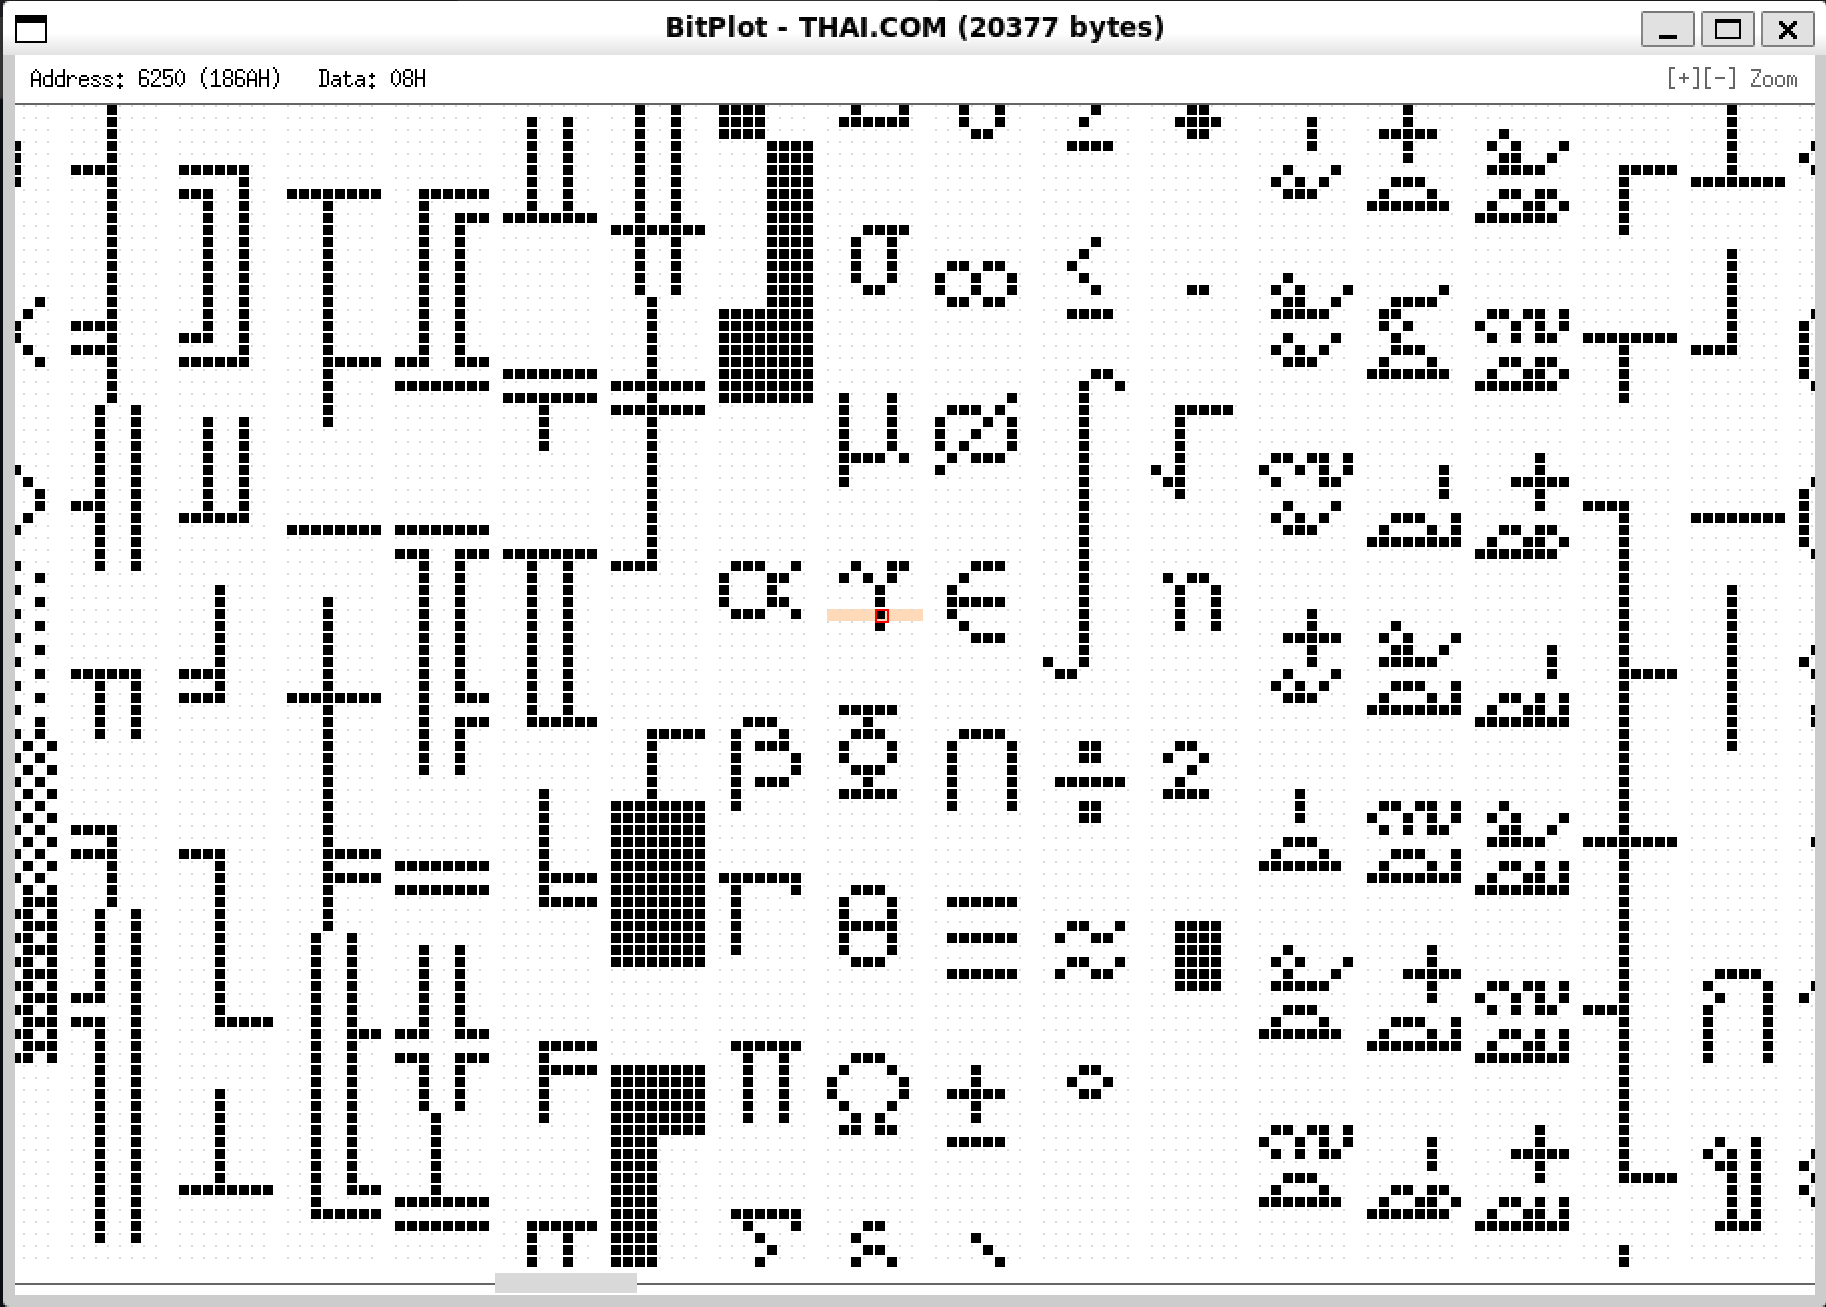
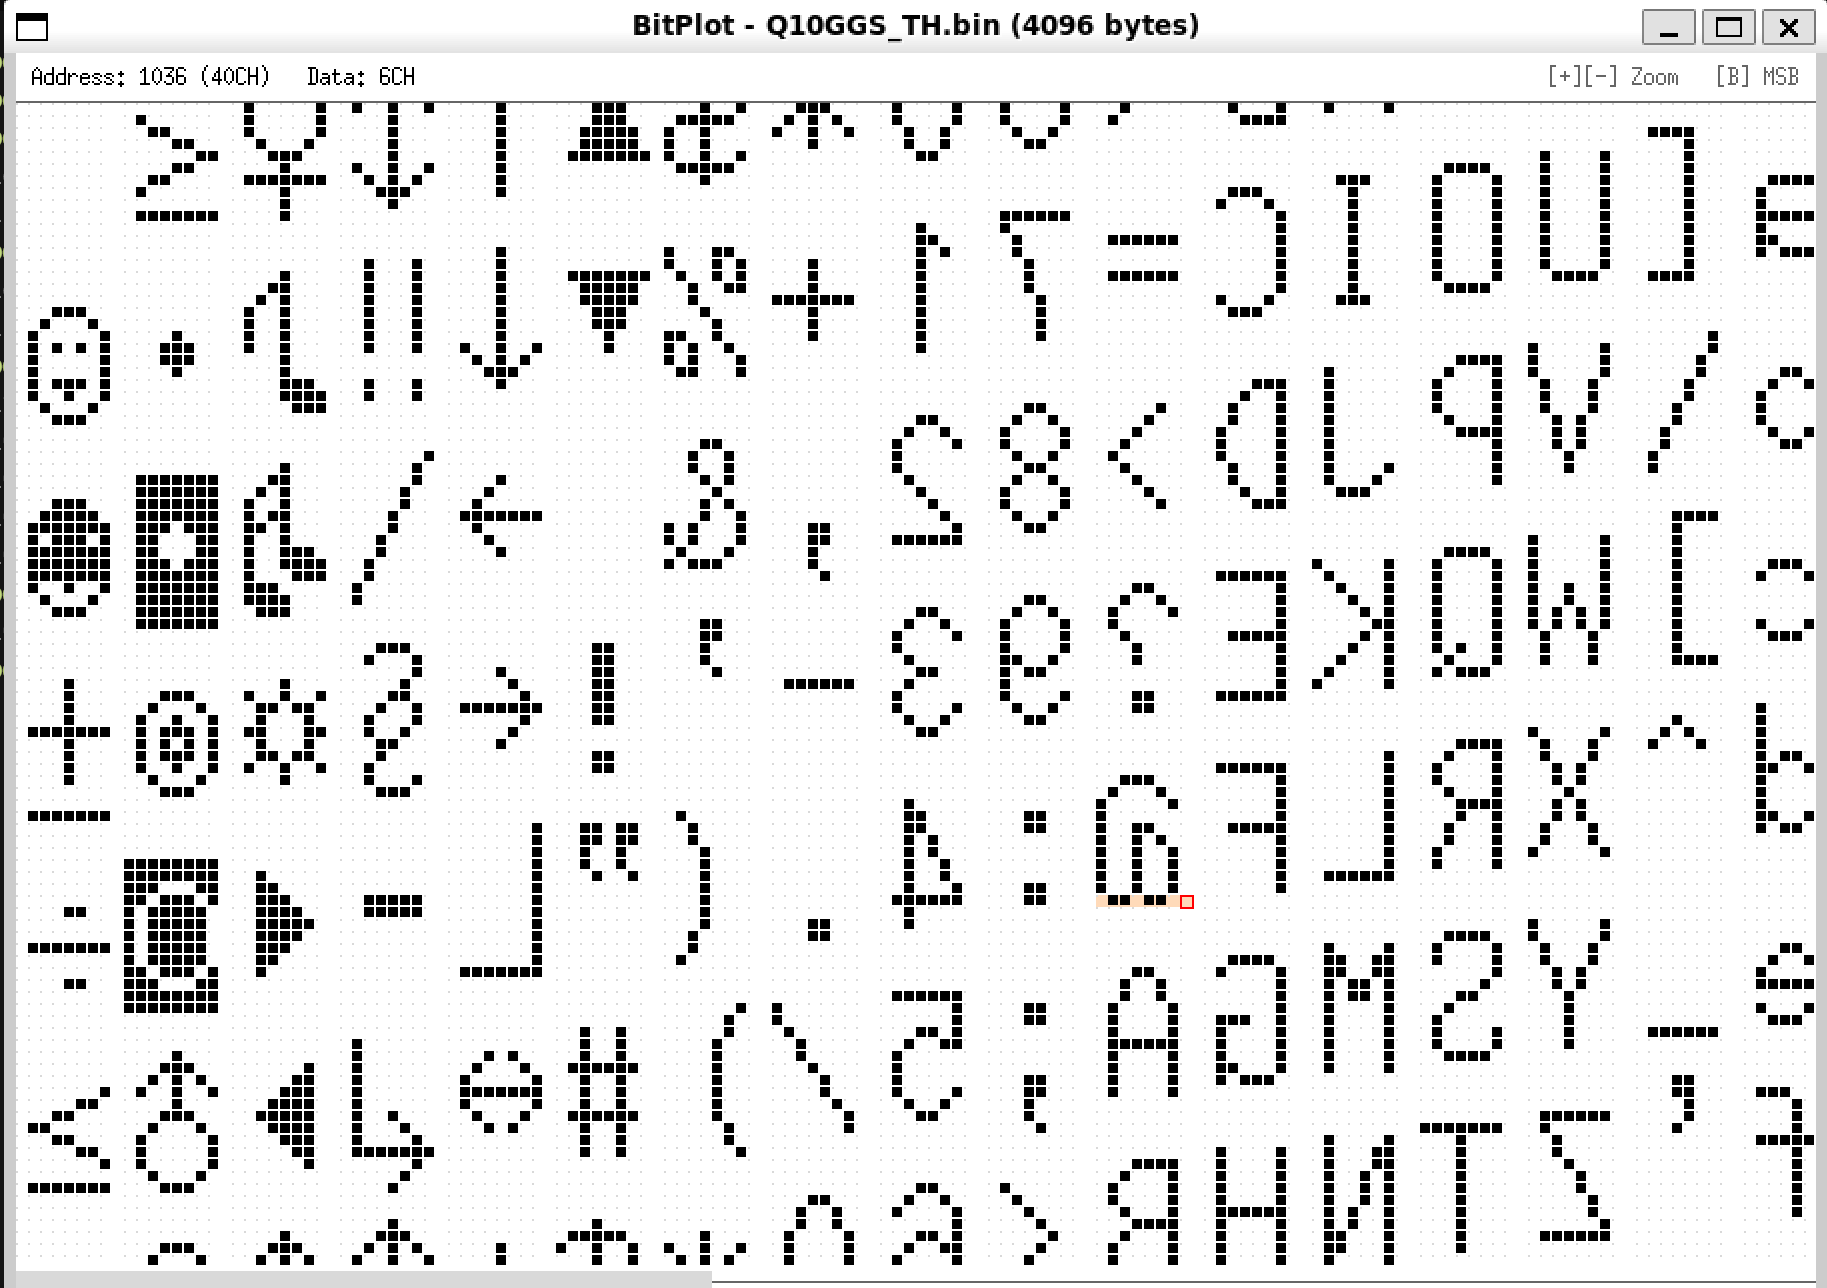
Add B key to flip bit order (MSB <-> LSB) for mirrored fonts; new screenshots
Some font versions store each glyph row LSB-first so glyphs render
mirrored; B toggles the bit order on both platforms. The header shows
the current order ([B] MSB / [B] LSB).

Changed region(s): [[0.0, 0.0, 1.0, 1.0], [0.3434, 0.0, 0.6555, 0.0311]]

diff --git a/bitplot.c b/bitplot.c
@@ -54,6 +54,7 @@ static long long scroll_x = 0;
 static long long hover_byte = -1;
 static int hover_bit = -1;
 static int dragging = 0;
+static int lsb_first = 0;   /* 0 = MSB leftmost (normal), 1 = mirrored (LSB-first) font */
 
 static char path_buf[4096];
 static int path_len = 0;
@@ -178,8 +179,10 @@ static void redraw(void)
             for (long long b = fb; b < lb; b++) {
                 int y = hh + (int)(b - fb) * cell;
                 u8 v = data[b];
-                for (int bit = 0; bit < BITS; bit++)
-                    draw_point(x0 + bit * cell, y, (v >> (7 - bit)) & 1);
+                for (int bit = 0; bit < BITS; bit++) {
+                    int bi = lsb_first ? bit : 7 - bit;
+                    draw_point(x0 + bit * cell, y, (v >> bi) & 1);
+                }
             }
             if (hov_here && hover_bit >= 0) {
                 XSetForeground(dpy, gc_back, col_red);
@@ -221,8 +224,8 @@ static void redraw(void)
             snprintf(buf + n, sizeof buf - n, "   Data: %02XH", data[addr]);
         XSetForeground(dpy, gc_back, col_black);
         XDrawString(dpy, back, gc_back, 8, ty, buf, (int)strlen(buf));
-        char right[1024];
-        snprintf(right, sizeof right, "[+][-] Zoom  -  %s  -  %lld bytes", fname ? fname : "", len);
+        char right[64];
+        snprintf(right, sizeof right, "[+][-] Zoom   [B] %s", lsb_first ? "LSB" : "MSB");
         draw_string_right(back, ty, right, col_gray);
     } else {
         XSetForeground(dpy, gc_back, col_black);
@@ -455,6 +458,10 @@ int main(int argc, char **argv)
                     break;
                 case XK_End:
                     scroll_x = max_scroll();
+                    redraw();
+                    break;
+                case XK_b: case XK_B:
+                    lsb_first = !lsb_first;
                     redraw();
                     break;
                 case XK_Escape: case XK_q: case XK_Q:

diff --git a/BitPlot.cs b/BitPlot.cs
@@ -62,7 +62,7 @@ class BitPlotForm : Form
     readonly HScrollBar hBar;
     readonly Label zoomHint = new Label
     {
-        Text = "[+][-] Zoom",
+        Text = "[+][-] Zoom   [B] MSB",
         ForeColor = Color.DimGray,
         BackColor = Color.White,
         AutoSize = true,
@@ -71,6 +71,7 @@ class BitPlotForm : Form
 
     long hoverByte = -1;                 // file offset of hovered byte, -1 = none
     int hoverBit = -1;                   // bit index 0..7 within the byte (0 = MSB)
+    bool lsbFirst = false;               // false = MSB leftmost (normal), true = mirrored font
 
     long Rows
     {
@@ -201,6 +202,12 @@ class BitPlotForm : Form
         {
             case Keys.O: OpenFile(); return true;
             case Keys.Escape: Close(); return true;
+            case Keys.B:
+                lsbFirst = !lsbFirst;
+                zoomHint.Text = "[+][-] Zoom   [B] " + (lsbFirst ? "LSB" : "MSB");
+                PositionZoomHint();
+                plot.Invalidate();
+                return true;
             case Keys.Oemplus:
             case Keys.Add: Zoom(2); return true;
             case Keys.OemMinus:
@@ -288,7 +295,8 @@ class BitPlotForm : Form
                 for (int bit = 0; bit < BitsPerByte; bit++)
                 {
                     float x = x0 + bit * cell;
-                    if (((v >> (7 - bit)) & 1) != 0)
+                    int bitIndex = lsbFirst ? bit : 7 - bit;
+                    if (((v >> bitIndex) & 1) != 0)
                         g.FillRectangle(setBrush, x, y, pointW, pointW);
                     else
                         g.FillRectangle(unsetBrush, x, y, unsetSize, unsetSize);

diff --git a/README.md b/README.md
@@ -33,8 +33,6 @@ Address: 0 (0H)   Data: 00H
 
 Classic bitmap fonts (8×8 and 8×16 PC/BIOS fonts, game fonts, UI fonts baked into firmware) store **one glyph row per byte**, 8 pixels per byte. Plot such a file and the glyph rows line up with the byte columns — the letters become readable. The screenshot above is `THAI.COM`, a classic DOS-era Thai bitmap font: Latin letters, Thai glyphs and symbol tables all pop out of the raw bytes.
 
-![Hovering any point shows its file address in decimal and hex — here 2170 (87AH)](docs/screenshot-hover.png)
-
 Typical things to point it at:
 
 - firmware / ROM dumps and flash images
@@ -45,6 +43,7 @@ Typical things to point it at:
 Tips:
 
 - Zoom with `+` / `-` until the column height is a **multiple of the glyph height** (8 or 16 rows), so every glyph starts at the top of a column and stays aligned.
+- Some font versions store each row LSB-first, so every glyph looks mirrored. Press `B` to flip the bit order (MSB ⇄ LSB).
 - Use the hover address readout to note where a font starts, then extract it at that offset.
 - Files wider than the window scroll horizontally; the window can be resized freely (rows per column follow the window height).
 
@@ -64,13 +63,14 @@ Linux: press `O`, type a path, press `Enter`.
 | `+` / `-` (or `Ctrl` + mouse wheel) | zoom point size |
 | mouse wheel, `Left` / `Right` | scroll |
 | `Home` / `End` | jump to start / end (Linux) |
+| `B` | flip bit order MSB ⇄ LSB (fixes mirrored glyphs) |
 | `Esc` | quit (`q` also works on Linux) |
 
 ### Linux
 
 Same plotting rules, same hover address readout:
 
-![BitPlot on Linux (X11) rendering THAI.COM — Thai glyphs, Latin letters and symbols line up from the raw bytes](docs/screenshot-linux.png)
+![BitPlot on Linux (X11): Q10GGS_TH.bin reads correctly after pressing B to flip its mirrored (LSB-first) rows to MSB](docs/screenshot-linux.png)
 
 ## Build
 
@@ -109,4 +109,5 @@ Building needs `gcc` and the X11 headers — Debian/Ubuntu: `sudo apt install bu
 - ดาวน์โหลดโปรแกรมสำเร็จรูปได้ที่หน้า [Releases](https://github.com/too101/bitplot/releases/latest) (ไฟล์เดียว พกพาสะดวก ไม่ต้องติดตั้งอะไร)
 - เอาเมาส์ชี้จุดไหนก็จะบอก **address ของ byte นั้น (ฐาน 10 และฐาน 16) พร้อมค่าของ byte** เช่น `Address: 1234 (4D2H)   Data: 66H`
 - `O` = เปิดไฟล์ (Windows ลากไฟล์มาทิ้งก็ได้, Linux กด `O` แล้วพิมพ์ path), `+` / `-` = ซูมขนาดจุด, ลูกกลิ้งเมาส์ = เลื่อนซ้ายขวา
+- ฟอนต์บางรุ่นเก็บบิตกลับซ้ายขวา (LSB-first) ทำให้ตัวอักษรกลับด้าน — กด `B` เพื่อสลับ MSB ⇄ LSB
 - มีสองเวอร์ชัน: Windows (C# WinForms ไฟล์เดียว) และ Linux (C + X11 ไฟล์เดียว) — ไม่มี dependency ให้ติดตั้งเพิ่ม วิธี build อยู่ในหัวข้อ Build
